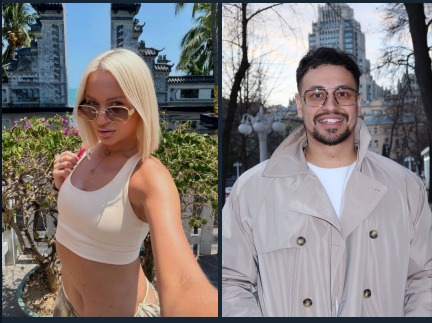
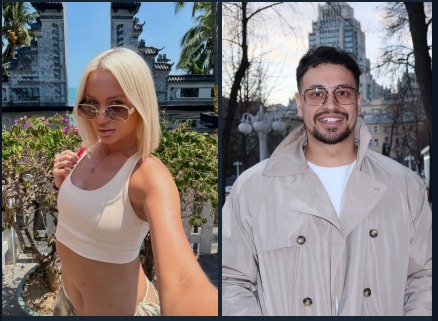
Add files via upload

diff --git a/app/page.jsx b/app/page.jsx
@@ -7,16 +7,23 @@ const siteConfig = {
   // Чтобы обновить главный плеер, меняйте только этот ID.
   // Пример: https://www.youtube.com/watch?v=r6JvpOAPlG4
   // ID здесь: r6JvpOAPlG4
-  currentVideoId: "FQQA_0O5blA",
+  currentVideoId: "q0MIQp6TBgE",
 };
 
 const archiveItems = [
   {
-    date: "03.06",
+    date: "04.06",
     title: "Дом 2 сегодняшний выпуск — свежий стрим",
+    videoUrl: "https://youtube.com/live/q0MIQp6TBgE?feature=share",
+    image: "https://img.youtube.com/vi/q0MIQp6TBgE/hqdefault.jpg",
+    tag: "Новый эфир",
+  },
+  {
+    date: "03.06",
+    title: "Дом 2 смотреть онлайн — архив эфира",
     videoUrl: "https://youtube.com/live/FQQA_0O5blA?feature=share",
     image: "https://img.youtube.com/vi/FQQA_0O5blA/hqdefault.jpg",
-    tag: "Новый эфир",
+    tag: "Архив",
   },
   {
     date: "02.06",
@@ -70,6 +77,14 @@ const archiveItems = [
 ];
 
 const newsItems = [
+  {
+    date: "04.06.2026",
+    image: "/news/news-elina-rakhimova-danya-sakhnov-flirt.jpg",
+    title: "Элина Рахимова рассказала о флирте с Даней Сахновым",
+    text: "Элина Рахимова рассказала о тёплом общении и флирте с экс-участником проекта Даней Сахновым. Она сообщила Веронике, что всю ночь общалась с Сахновым, услышала от него много комплиментов и подумала, что они могли бы стать идеальной парой. Элина ждёт Даниила на проекте, но он пока не появился и на свидание её не пригласил.",
+    tag: "Флирт",
+  },
+
   {
     date: "04.06.2026",
     image: "/news/news-zhenya-horosheva-left-china.jpg",

diff --git a/app/archive/page.jsx b/app/archive/page.jsx
@@ -8,11 +8,18 @@ export const metadata = {
 
 const archiveItems = [
   {
-    date: "03.06",
+    date: "04.06",
     title: "Дом 2 сегодняшний выпуск — свежий стрим",
+    videoUrl: "https://youtube.com/live/q0MIQp6TBgE?feature=share",
+    image: "https://img.youtube.com/vi/q0MIQp6TBgE/hqdefault.jpg",
+    tag: "Новый эфир",
+  },
+  {
+    date: "03.06",
+    title: "Дом 2 смотреть онлайн — архив эфира",
     videoUrl: "https://youtube.com/live/FQQA_0O5blA?feature=share",
     image: "https://img.youtube.com/vi/FQQA_0O5blA/hqdefault.jpg",
-    tag: "Новый эфир",
+    tag: "Архив",
   },
   {
     date: "02.06",

diff --git a/app/news/page.jsx b/app/news/page.jsx
@@ -9,6 +9,14 @@ export const metadata = {
 const newsItems = [
   {
     date: "04.06.2026",
+    image: "/news/news-elina-rakhimova-danya-sakhnov-flirt.jpg",
+    title: "Элина Рахимова рассказала о флирте с Даней Сахновым",
+    text: "Элина Рахимова рассказала о тёплом общении и флирте с экс-участником проекта Даней Сахновым. Она сообщила Веронике, что всю ночь общалась с Сахновым, услышала от него много комплиментов и подумала, что они могли бы стать идеальной парой. Элина ждёт Даниила на проекте, но он пока не появился и на свидание её не пригласил.",
+    tag: "Флирт",
+  },
+
+  {
+    date: "04.06.2026",
     image: "/news/news-zhenya-horosheva-left-china.jpg",
     title: "Сергей Хорошев сообщил, что Женя улетела из Китая",
     text: "Сергей Хорошев рассказал, что Женя собрала вещи и улетела. По его словам, они снова наговорили друг другу много лишнего, между ними накопилось недопонимание, и ситуация получилась печальной.",

diff --git a/README.md b/README.md
@@ -1,19 +1,5 @@
 # Дом 2 Live
 
-## Актуальная база архива
-
-Этот архив собран как единая актуальная версия сайта на 04.06.2026.
-
-Внутри уже сохранены последние изменения:
-- главный эфир: `https://youtube.com/live/FQQA_0O5blA?feature=share`;
-- предыдущие эфиры добавлены в архив, блок архива на главной показывает 5 последних выпусков;
-- свежая новость от 04.06.2026: `Сергей Хорошев сообщил, что Женя улетела из Китая`;
-- на главной показываются 12 последних новостей, полный список находится на `/news`;
-- сохранены SEO-страницы, `sitemap.js`, `robots.js`, favicon и Vercel Analytics;
-- сохранены закреплённая шапка, неоновое меню, кнопка YouTube и desktop-hover эффект для карточек новостей.
-
-Для следующих правок нужно брать именно самый свежий архив, собранный после последнего изменения, чтобы старые доработки не пропадали.
-
 Сайт для просмотра стримов и выпусков дом 2 через встроенный YouTube-плеер.
 
 ## Как обновить новый стрим
@@ -24,7 +10,7 @@
 
 Найдите:
 
-`currentVideoId: "FQQA_0O5blA"`
+`currentVideoId: "j-jxUE1EYUg"`
 
 Замените ID на новый ID из ссылки YouTube.
 
@@ -83,13 +69,13 @@
 
 ## Последнее обновление эфира
 
-Главный эфир сейчас:
+Главный эфир обновлён на выпуск за 28.05:
 
-`https://youtube.com/live/FQQA_0O5blA?feature=share`
+`https://www.youtube.com/live/r6JvpOAPlG4`
 
-Предыдущий эфир перенесён в архив:
+Выпуск за 27.05 перенесён в архив:
 
-`https://youtube.com/live/udLhhalRvKk?feature=share`
+`https://youtu.be/j-jxUE1EYUg`
 
 
 ## Новости на сайте